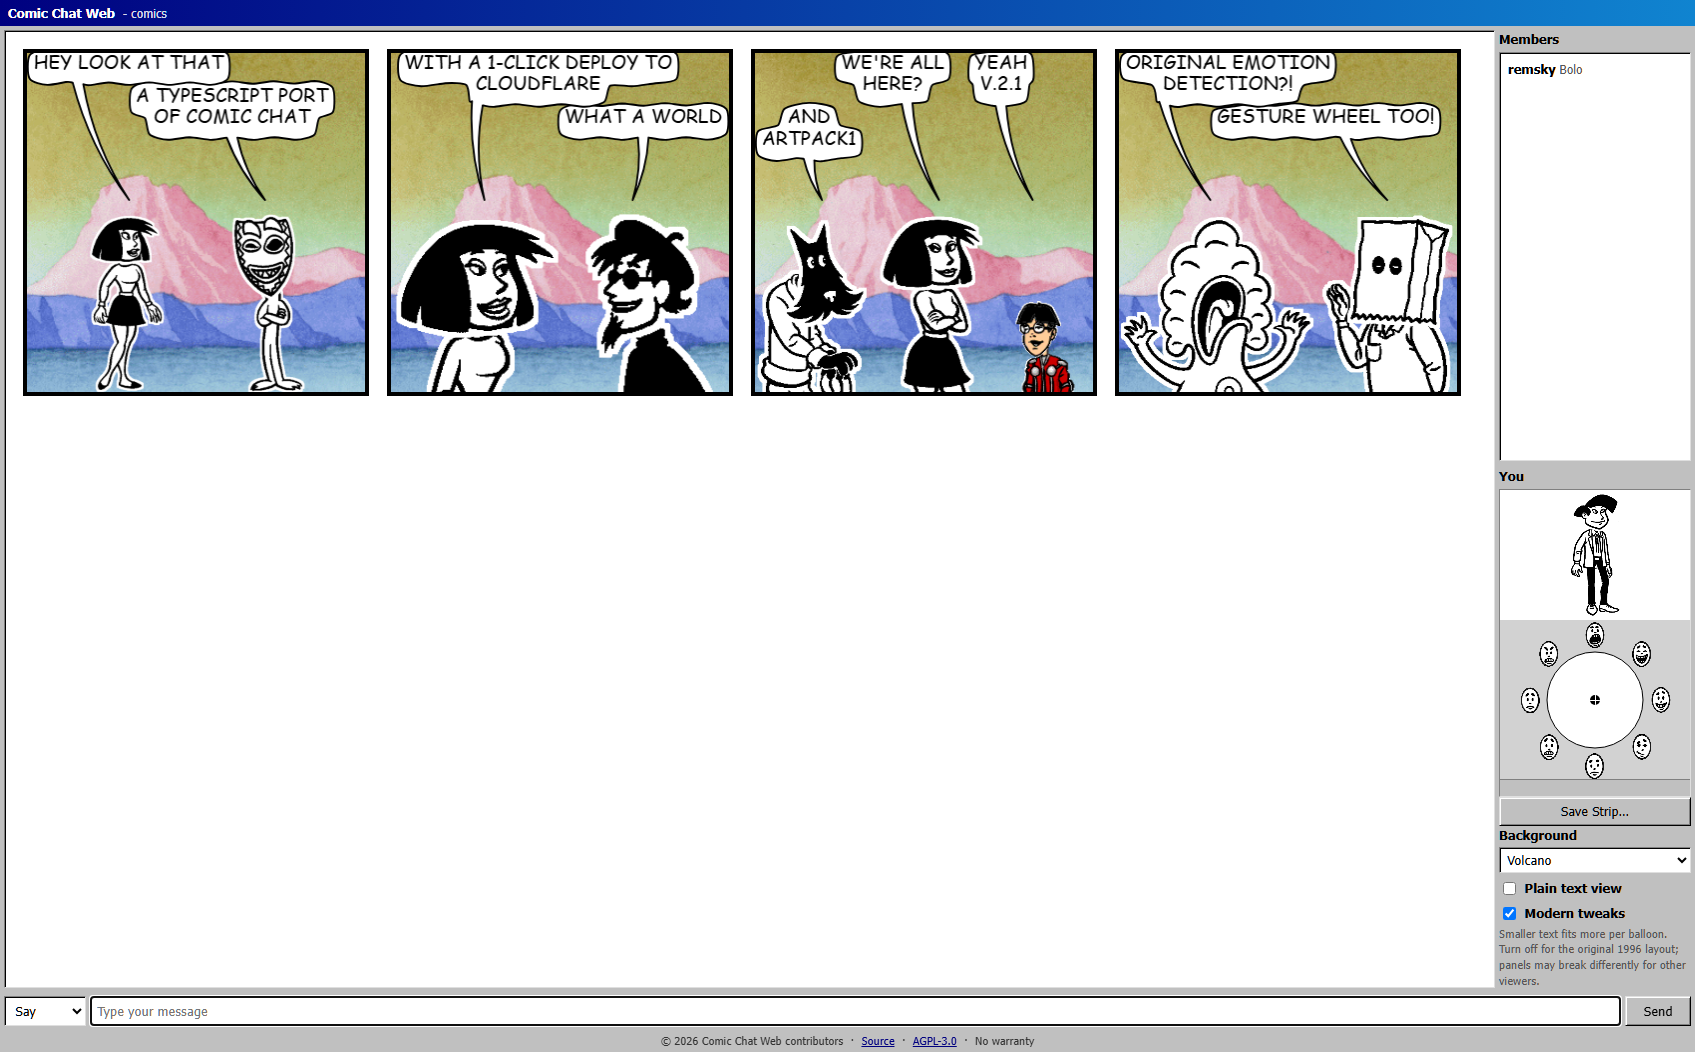
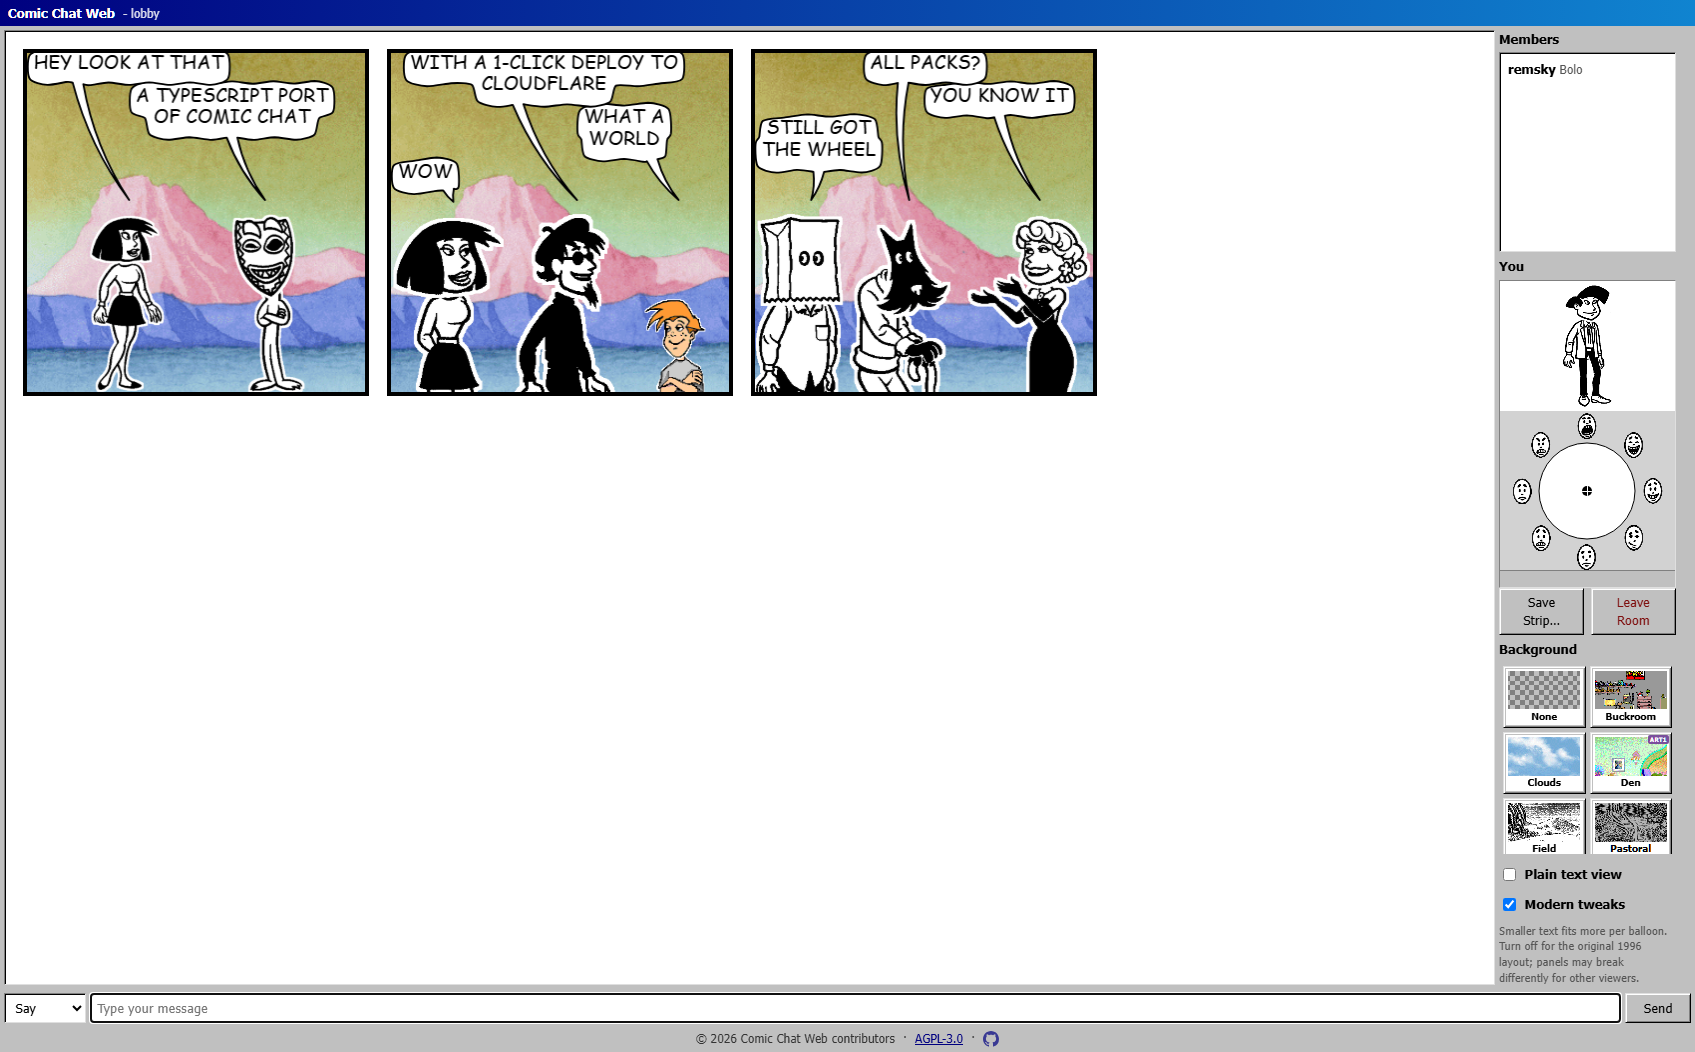
feat: og cards and social meta, refreshed screenshot

Changed region(s): [[0.0, 0.0304, 1.0, 1.0], [0.8897, 0.0304, 0.9204, 0.0913], [0.0614, 0.0, 0.092, 0.0304]]

diff --git a/index.html b/index.html
@@ -8,6 +8,25 @@
 			content="Live comic chat rooms rendered by the open-source Microsoft Comic Chat engine port."
 		/>
 		<title>Comic Chat Web</title>
+		<meta property="og:type" content="website" />
+		<meta property="og:title" content="Comic Chat Web" />
+		<meta
+			property="og:description"
+			content="Live comic chat rooms rendered by the open-source Microsoft Comic Chat engine port."
+		/>
+		<meta property="og:url" content="https://comics.remsky.art/" />
+		<meta property="og:image" content="https://comics.remsky.art/og.jpg" />
+		<meta property="og:image:width" content="1200" />
+		<meta property="og:image:height" content="630" />
+		<meta
+			property="og:image:alt"
+			content="Three-panel comic strip of Comic Chat characters discussing the TypeScript port"
+		/>
+		<meta
+			property="og:image"
+			content="https://comics.remsky.art/og-square.jpg"
+		/>
+		<meta name="twitter:card" content="summary_large_image" />
 		<link rel="stylesheet" href="/src/browser/room.css" />
 		<link rel="icon" href="/favicon.ico" sizes="any" />
 		<link rel="icon" type="image/png" sizes="32x32" href="/favicon-32x32.png" />